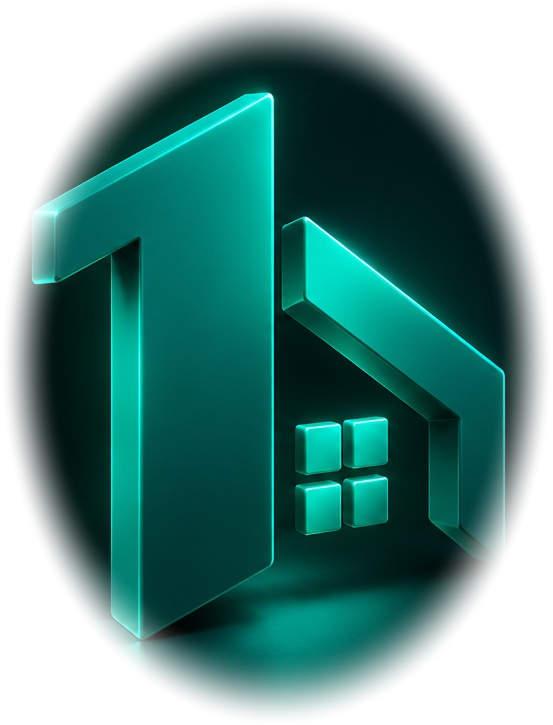
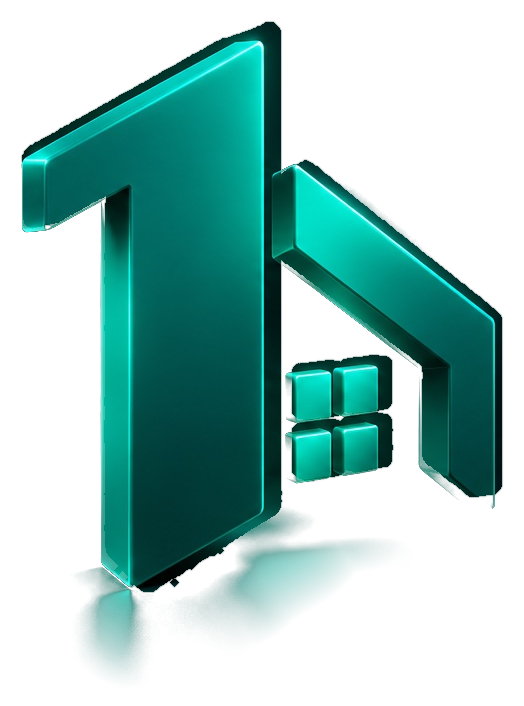
Fix the loading house and let the screen finish.
Cut the 3D mark out of its studio plate so it no longer sits in an oval, and lift it without tilting. Cache the toast snapshot so hydration does not loop on the loader, and allow the dev server to boot from 127.0.0.1.

diff --git a/src/components/brand/logo-loader.tsx b/src/components/brand/logo-loader.tsx
@@ -27,34 +27,29 @@ export function LogoLoader({
           className="pointer-events-none absolute inset-0 bg-[radial-gradient(ellipse_at_center,rgba(12,110,99,0.09),transparent_58%)] dark:bg-[radial-gradient(ellipse_at_center,rgba(23,186,168,0.12),transparent_58%)]"
         />
       ) : null}
-      <div className="relative">
-        <div aria-hidden className="absolute bottom-[8%] left-1/2 h-8 w-36 -translate-x-1/2">
-          <div className="logo-loader-glow h-full w-full rounded-full bg-[var(--accent)]/50 blur-xl" />
-        </div>
-        <div className="logo-loader-mark relative">
-          <img
-            src="/brand/loader-mark-light.webp"
-            alt=""
-            width={537}
-            height={687}
-            draggable={false}
-            className={cn(
-              "relative h-auto w-[8.75rem] dark:hidden",
-              layout === "compact" && "w-24",
-            )}
-          />
-          <img
-            src="/brand/loader-mark-dark.webp"
-            alt=""
-            width={553}
-            height={725}
-            draggable={false}
-            className={cn(
-              "relative hidden h-auto w-[8.75rem] dark:block",
-              layout === "compact" && "w-24",
-            )}
-          />
-        </div>
+      <div className="logo-loader-mark relative">
+        <img
+          src="/brand/loader-mark-light.webp"
+          alt=""
+          width={512}
+          height={601}
+          draggable={false}
+          className={cn(
+            "relative h-auto w-[9.5rem] dark:hidden",
+            layout === "compact" && "w-24",
+          )}
+        />
+        <img
+          src="/brand/loader-mark-dark.webp"
+          alt=""
+          width={524}
+          height={706}
+          draggable={false}
+          className={cn(
+            "relative hidden h-auto w-[9.5rem] dark:block",
+            layout === "compact" && "w-24",
+          )}
+        />
       </div>
       {label ? (
         <p className="relative mt-6 text-sm font-medium tracking-[-0.01em] text-[var(--muted)]">{label}</p>

diff --git a/src/components/ui/toast.tsx b/src/components/ui/toast.tsx
@@ -79,8 +79,15 @@ const TOAST_CONFIG: Record<
 // Because we want to call `toast.success("Saved!")` from ANYWHERE — even from
 // non-React code like API utility functions. This store lives outside React.
 
-let toasts: Toast[] = [];
+// One stable empty list. A fresh `[]` from getServerSnapshot makes React
+// re-render forever and the workspace loader never leaves the screen.
+const EMPTY_TOASTS: Toast[] = [];
+let toasts: Toast[] = EMPTY_TOASTS;
 let listeners: Array<(toasts: Toast[]) => void> = [];
+
+function getToastSnapshot() {
+  return toasts;
+}
 
 function notify() {
   // Tell every listener "hey, the toasts changed!"
@@ -191,8 +198,8 @@ function ToastItem({
 export function ToastContainer() {
   const currentToasts = React.useSyncExternalStore(
     subscribe,
-    () => toasts,
-    () => [], // Server-side: no toasts
+    getToastSnapshot,
+    getToastSnapshot,
   );
 
   if (currentToasts.length === 0) return null;

diff --git a/src/app/globals.css b/src/app/globals.css
@@ -696,25 +696,9 @@ html,
   display: block;
 }
 
-/* 3D loader. The mark only lifts, so the render is never skewed. */
-.logo-loader-glow {
-  animation: logo-glow 3.6s ease-in-out infinite;
-}
-
+/* 3D loader. Translate only — a tilt or a blurred plate warps the render. */
 .logo-loader-mark {
   animation: logo-float 3.6s ease-in-out infinite;
-}
-
-@keyframes logo-glow {
-  0%,
-  100% {
-    opacity: 0.85;
-    transform: scaleX(1);
-  }
-  50% {
-    opacity: 0.35;
-    transform: scaleX(0.8);
-  }
 }
 
 @keyframes logo-float {
@@ -731,7 +715,6 @@ html,
   .animate-float-slow,
   .animate-pulse-ring,
   body::before,
-  .logo-loader-glow,
   .logo-loader-mark {
     animation: none;
   }

diff --git a/next.config.ts b/next.config.ts
@@ -1,6 +1,9 @@
 import type { NextConfig } from "next";
 
 const nextConfig: NextConfig = {
+  // The dev server is opened at 127.0.0.1. Without this, Next blocks the
+  // client runtime and the app stays on the server-rendered loader.
+  allowedDevOrigins: ["127.0.0.1", "localhost"],
   async headers() {
     return [
       {
